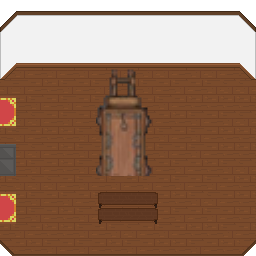
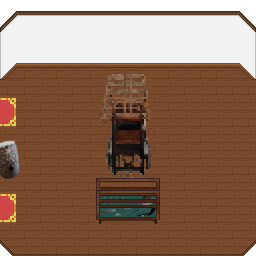
feat: ultimo jogo da memória adicionado e sua alterações de plano de fundo

Changed region(s): [[0.375, 0.2812, 0.625, 0.875], [0.0, 0.5312, 0.0938, 0.7188]]

diff --git a/src/game/scenes/Preloader.js b/src/game/scenes/Preloader.js
@@ -63,6 +63,14 @@ export class Preloader extends Scene {
     );
     //Salas pos
     this.load.image(
+      "sala_material_pos",
+      "/assets/salas/TemplateSalaPatMaterialJogoPos.png"
+    );
+    this.load.image(
+      "sala_cinema_pos",
+      "/assets/salas/TemplateSalaCinemaJogoPos.png"
+    );
+    this.load.image(
       "sala_chas_pos",
       "/assets/salas/TemplateSalaChasJogoPos.png"
     );

diff --git a/src/game/scenes/GameCarroca.js b/src/game/scenes/GameCarroca.js
@@ -29,9 +29,9 @@ export class GameCarroca extends BaseScene {
     this.physics.add.collider(this.character, colisao);
 
     this.createInteractiveObject(
-      150, // x position
+      100, // x position
       150, // y position
-      40, // width
+      130, // width
       40, // height
       () => this.comecarJogoDaMemoriaCarroca()
     );
